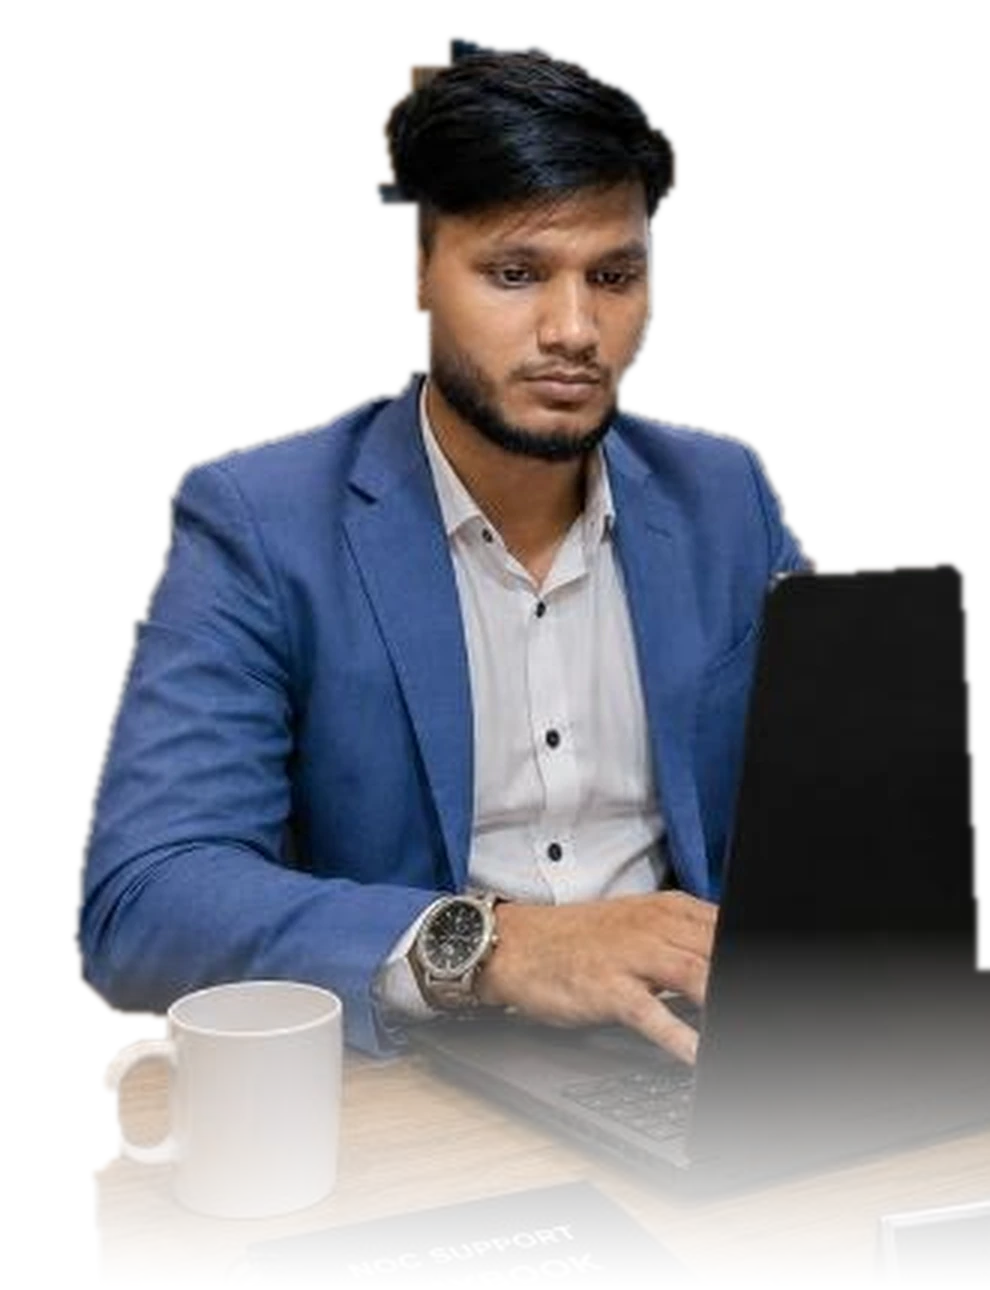
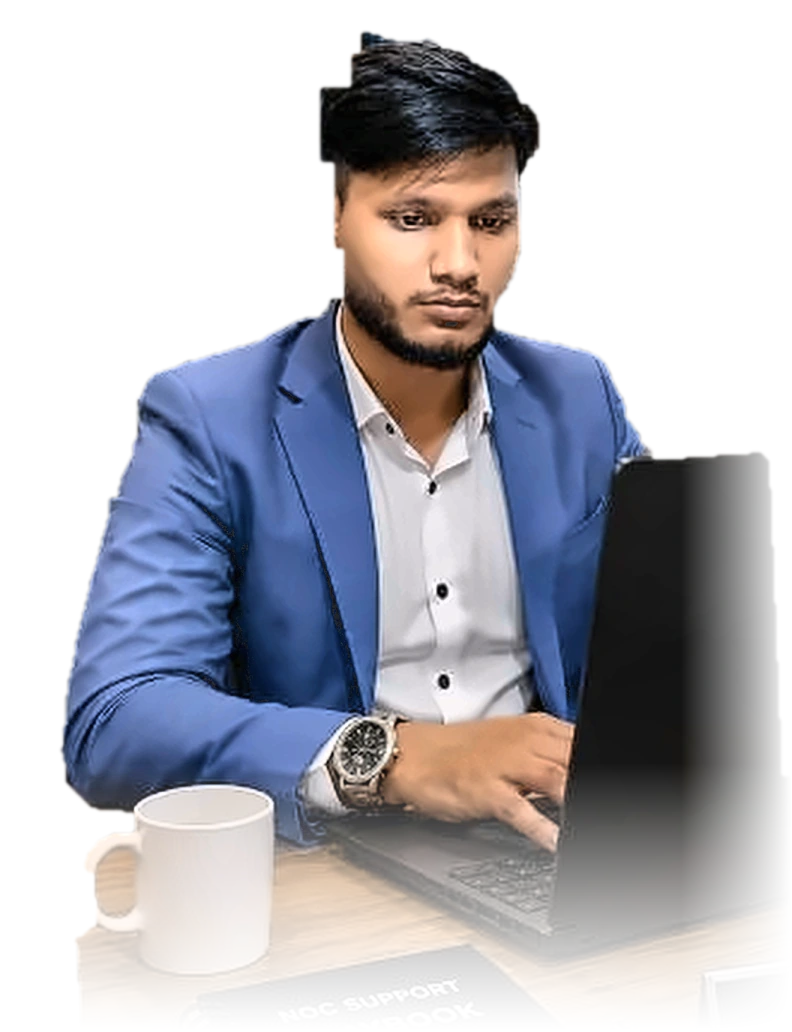
Polish: sharper photo, mobile hero tags, tighter section spacing
- Enhance hero photo (denoise, sharpen, cleaner cut-out edges); refresh og.png
- Move floating hero tags below the photo on screens < 1280px so they no
  longer cover the face; keep the floating tags on large desktops
- Reduce vertical section padding and heading margins across all breakpoints
- Smaller hero photo and tighter hero spacing on mobile

Claude-Session: https://claude.ai/code/session_01JueYfrTJKLkpyP5oHrPh1K

Changed region(s): [[0.0606, 0.031, 1.0, 0.9612], [0.5455, 0.5271, 0.5758, 0.6202]]

diff --git a/src/components/Hero.tsx b/src/components/Hero.tsx
@@ -11,7 +11,7 @@ const quick = [
 
 export default function Hero() {
   return (
-    <section id="home" className="relative isolate overflow-hidden pt-28 pb-16 sm:pt-32 lg:pb-24">
+    <section id="home" className="relative isolate overflow-hidden pt-24 pb-10 sm:pt-28 sm:pb-14 lg:pb-20">
       <div className="absolute inset-0 -z-10" aria-hidden="true">
         <div className="grid-bg absolute inset-0" />
         <div
@@ -27,7 +27,7 @@ export default function Hero() {
         <div className="absolute inset-x-0 bottom-0 h-40 bg-gradient-to-t from-ink to-transparent" />
       </div>
 
-      <div className="wrap grid items-center gap-12 lg:grid-cols-12 lg:gap-8">
+      <div className="wrap grid items-center gap-8 sm:gap-10 lg:grid-cols-12 lg:gap-8">
         <div className="lg:col-span-7">
           <p
             className="inline-flex items-center gap-2.5 rounded-full border border-ok/30 bg-ok/10 px-3.5 py-1.5 font-mono text-[11px] font-medium tracking-wider text-ok sm:text-xs"
@@ -37,7 +37,7 @@ export default function Hero() {
             {site.availability}
           </p>
 
-          <h1 className="mt-6 text-5xl font-semibold leading-[1.05] tracking-tight sm:text-6xl lg:text-7xl">
+          <h1 className="mt-5 text-5xl font-semibold leading-[1.05] tracking-tight sm:text-6xl lg:text-7xl">
             Joy <span className="gradient-text">Dash</span>
           </h1>
           <p className="mt-4 text-lg font-medium text-fg sm:text-xl">
@@ -78,7 +78,7 @@ export default function Hero() {
             </ul>
           </div>
 
-          <dl className="mt-10 grid max-w-xl grid-cols-3 gap-4 border-t border-line pt-6">
+          <dl className="mt-8 grid max-w-xl grid-cols-3 gap-4 border-t border-line pt-5">
             {[
               ["Tier 2/3", "NOC & corporate support"],
               ["MTCNA", "MikroTik certified"],
@@ -93,7 +93,7 @@ export default function Hero() {
         </div>
 
         <div className="lg:col-span-5">
-          <div className="relative mx-auto w-full max-w-[340px] sm:max-w-[400px] lg:max-w-[440px]">
+          <div className="relative mx-auto w-full max-w-[280px] sm:max-w-[360px] lg:max-w-[400px] xl:max-w-[440px]">
             <div
               className="absolute -inset-12 -z-10 rounded-full bg-[radial-gradient(closest-side,rgba(56,189,248,0.2),transparent_72%)]"
               aria-hidden="true"
@@ -105,23 +105,23 @@ export default function Hero() {
             <Image
               src="/images/joy.webp"
               alt="Portrait of Joy Dash, Support Engineer"
-              width={990}
-              height={1290}
+              width={792}
+              height={1032}
               priority
-              sizes="(min-width: 1024px) 440px, (min-width: 640px) 400px, 340px"
+              sizes="(min-width: 1280px) 440px, (min-width: 1024px) 400px, (min-width: 640px) 360px, 280px"
               className="relative h-auto w-full"
               style={{
                 maskImage: "linear-gradient(to right, #000 80%, transparent 100%)",
                 WebkitMaskImage: "linear-gradient(to right, #000 80%, transparent 100%)",
               }}
             />
-            <div className="glass absolute -left-2 top-[58%] rounded-xl border border-line px-3.5 py-2.5 shadow-xl sm:-left-6">
+            <div className="glass absolute -left-6 top-[58%] hidden rounded-xl border border-line px-3.5 py-2.5 shadow-xl xl:block">
               <p className="font-mono text-[10px] uppercase tracking-widest text-muted">
                 Certified
               </p>
               <p className="text-sm font-semibold text-fg">MikroTik MTCNA</p>
             </div>
-            <div className="glass absolute -right-1 top-[20%] rounded-xl border border-line px-3.5 py-2.5 shadow-xl sm:-right-4">
+            <div className="glass absolute -right-4 top-[20%] hidden rounded-xl border border-line px-3.5 py-2.5 shadow-xl xl:block">
               <p className="font-mono text-[10px] uppercase tracking-widest text-muted">
                 Focus
               </p>
@@ -131,6 +131,16 @@ export default function Hero() {
               </p>
             </div>
           </div>
+          <ul className="mt-4 flex flex-wrap items-center justify-center gap-2 xl:hidden">
+            <li className="glass rounded-lg border border-line px-3 py-2">
+              <span className="font-mono text-[10px] uppercase tracking-widest text-muted">Certified </span>
+              <span className="text-sm font-semibold text-fg">MikroTik MTCNA</span>
+            </li>
+            <li className="glass flex items-center gap-1.5 rounded-lg border border-line px-3 py-2">
+              <span className="h-1.5 w-1.5 rounded-full bg-ok" aria-hidden="true" />
+              <span className="text-sm font-semibold text-fg">BGP · OSPF · FTTH</span>
+            </li>
+          </ul>
         </div>
       </div>
     </section>

diff --git a/src/components/Certifications.tsx b/src/components/Certifications.tsx
@@ -5,7 +5,7 @@ import SectionHeading from "./SectionHeading";
 
 export default function Certifications() {
   return (
-    <section id="certifications" className="relative py-20 sm:py-28">
+    <section id="certifications" className="relative py-10 sm:py-14 lg:py-16">
       <div className="wrap">
         <SectionHeading
           eyebrow="Licenses & Certifications"

diff --git a/src/components/EducationSection.tsx b/src/components/EducationSection.tsx
@@ -5,7 +5,7 @@ import SectionHeading from "./SectionHeading";
 
 export default function EducationSection() {
   return (
-    <section id="education" className="relative py-20 sm:py-28">
+    <section id="education" className="relative py-10 sm:py-14 lg:py-16">
       <div className="wrap">
         <SectionHeading eyebrow="Education" title="Academic foundation" />
 

diff --git a/src/components/Projects.tsx b/src/components/Projects.tsx
@@ -31,7 +31,7 @@ export default function Projects() {
   const close = useCallback(() => setActiveId(null), []);
 
   return (
-    <section id="projects" className="relative py-20 sm:py-28">
+    <section id="projects" className="relative py-10 sm:py-14 lg:py-16">
       <div className="wrap">
         <SectionHeading
           eyebrow="Featured Projects"

diff --git a/src/components/Skills.tsx b/src/components/Skills.tsx
@@ -4,7 +4,7 @@ import SectionHeading from "./SectionHeading";
 
 export default function Skills() {
   return (
-    <section id="skills" className="relative py-20 sm:py-28">
+    <section id="skills" className="relative py-10 sm:py-14 lg:py-16">
       <div className="wrap">
         <SectionHeading
           eyebrow="Technology & Infrastructure Matrix"

diff --git a/src/components/ExperienceTimeline.tsx b/src/components/ExperienceTimeline.tsx
@@ -6,7 +6,7 @@ import SectionHeading from "./SectionHeading";
 
 export default function ExperienceTimeline() {
   return (
-    <section id="experience" className="relative py-20 sm:py-28">
+    <section id="experience" className="relative py-10 sm:py-14 lg:py-16">
       <div className="wrap">
         <SectionHeading
           eyebrow="Experience"

diff --git a/src/components/Pillars.tsx b/src/components/Pillars.tsx
@@ -5,7 +5,7 @@ import SectionHeading from "./SectionHeading";
 
 export default function Pillars() {
   return (
-    <section id="pillars" className="relative py-20 sm:py-28">
+    <section id="pillars" className="relative py-10 sm:py-14 lg:py-16">
       <div className="wrap">
         <SectionHeading
           eyebrow="Core Engineering Pillars"

diff --git a/src/components/SectionHeading.tsx b/src/components/SectionHeading.tsx
@@ -10,7 +10,7 @@ export default function SectionHeading({
   description?: string;
 }) {
   return (
-    <Reveal className="mb-12 max-w-2xl">
+    <Reveal className="mb-8 max-w-2xl sm:mb-10">
       <p className="font-mono text-xs uppercase tracking-[0.2em] text-accent">
         <span className="text-ok">{"//"}</span> {eyebrow}
       </p>

diff --git a/src/components/Contact.tsx b/src/components/Contact.tsx
@@ -8,7 +8,7 @@ import SectionHeading from "./SectionHeading";
 
 export default function Contact() {
   return (
-    <section id="contact" className="relative py-20 sm:py-28">
+    <section id="contact" className="relative py-10 sm:py-14 lg:py-16">
       <div className="wrap">
         <SectionHeading
           eyebrow="Contact"

diff --git a/src/components/About.tsx b/src/components/About.tsx
@@ -5,7 +5,7 @@ import SectionHeading from "./SectionHeading";
 
 export default function About() {
   return (
-    <section id="about" className="relative py-20 sm:py-28">
+    <section id="about" className="relative py-10 sm:py-14 lg:py-16">
       <div className="wrap">
         <SectionHeading
           eyebrow="About"
